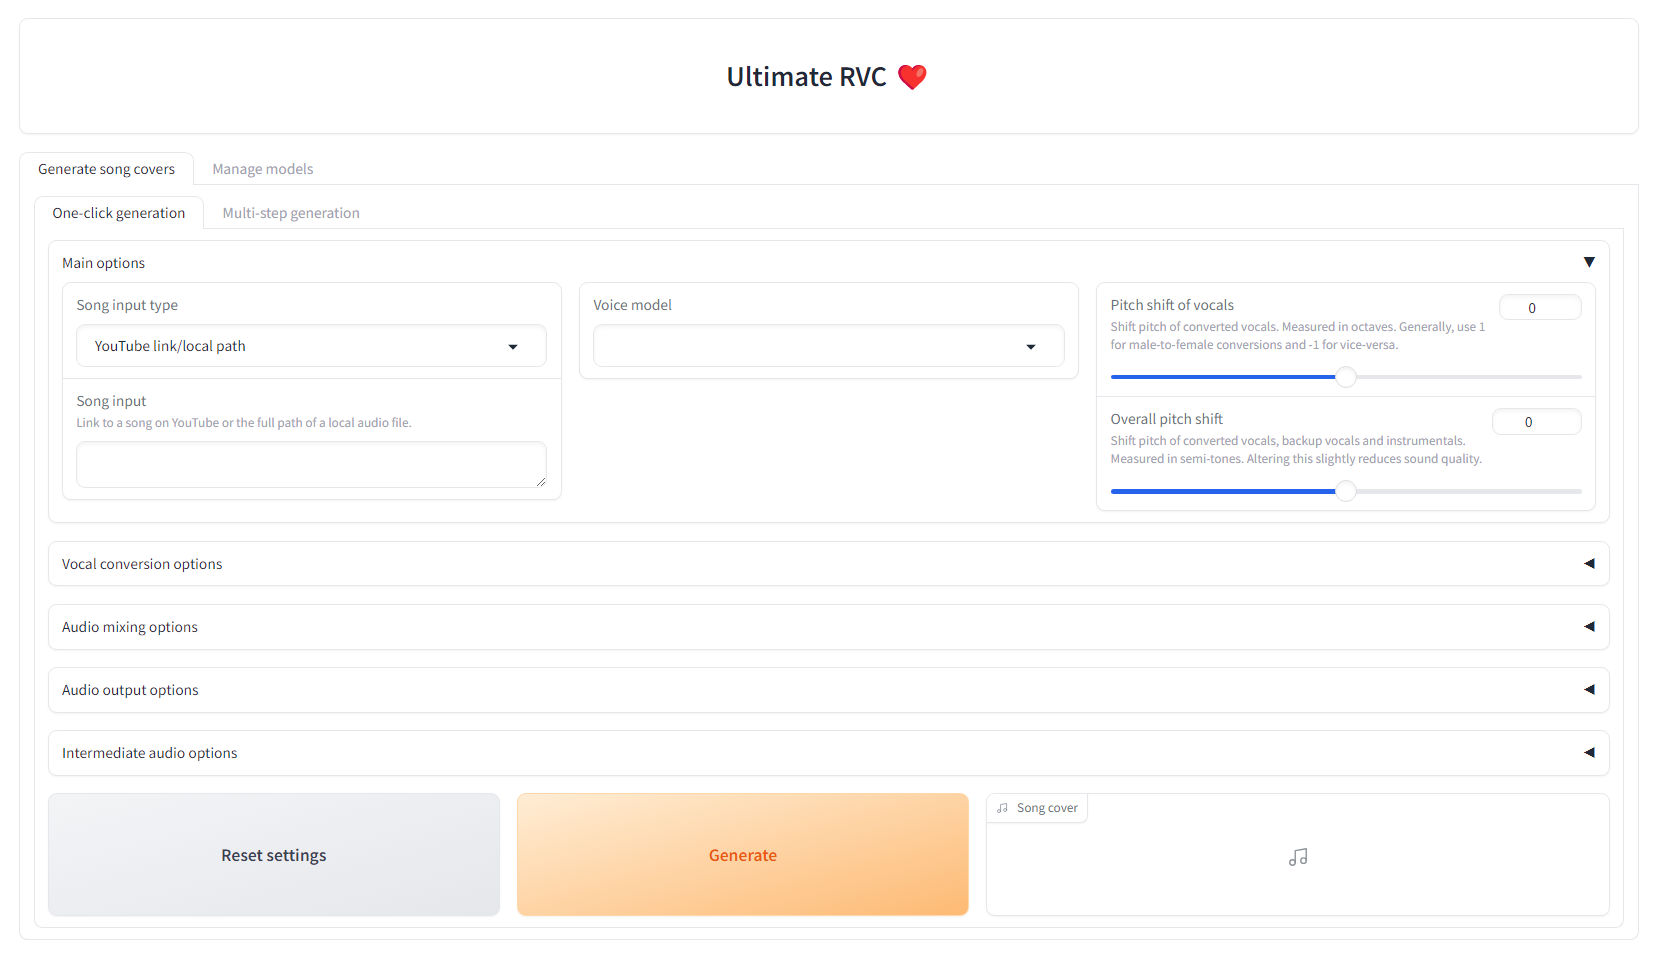
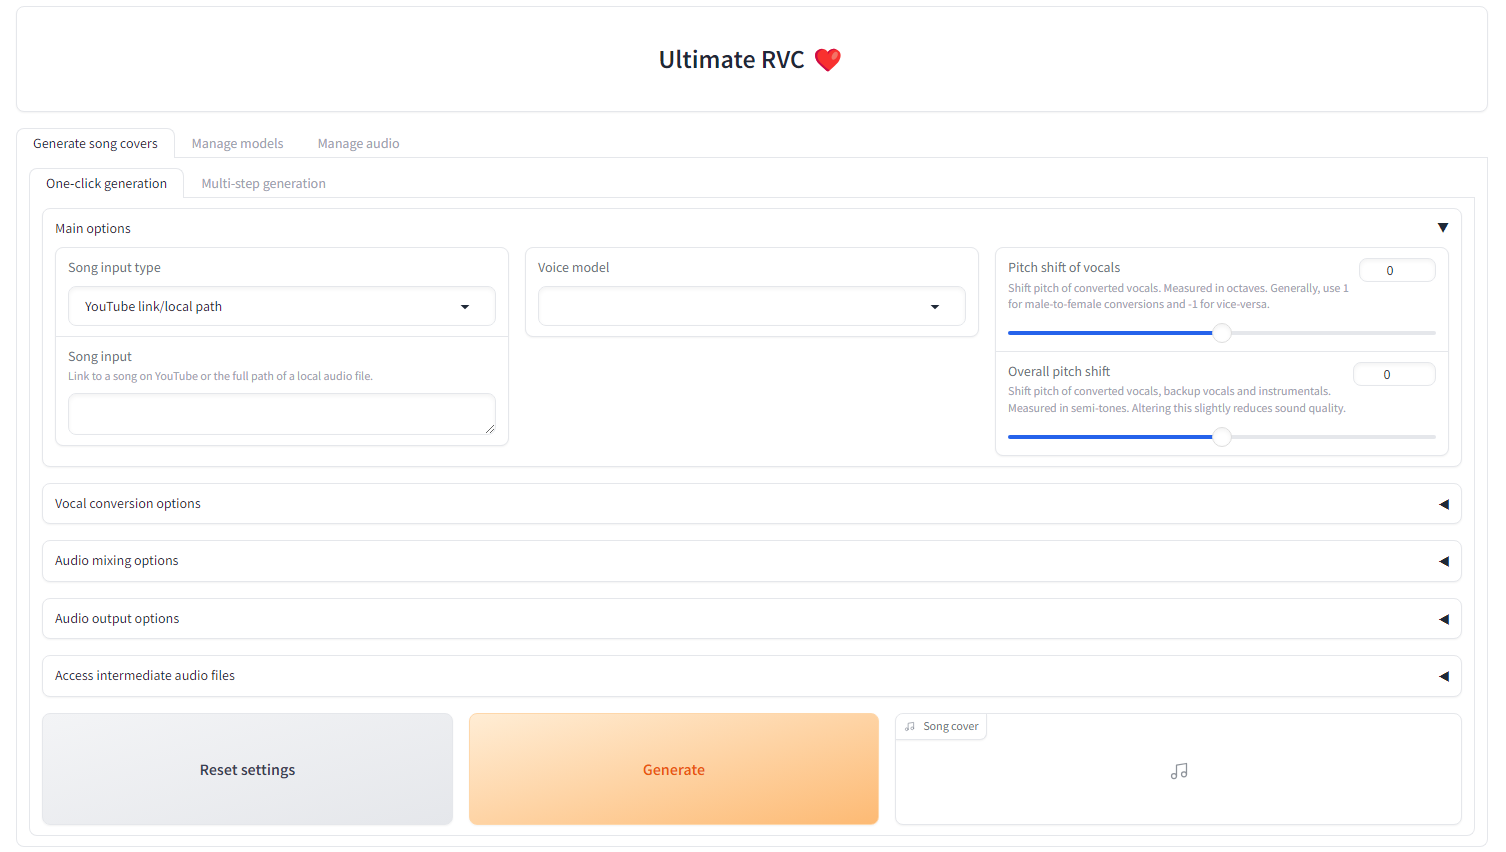
update readme

diff --git a/README.md b/README.md
@@ -1,18 +1,27 @@
 # Ultimate RVC
 
-An autonomous pipeline to create covers with any RVC v2 trained AI voice from YouTube videos or a local audio file. For developers who may want to add a singing functionality into their AI assistant/chatbot/vtuber, or for people who want to hear their favourite characters sing their favourite song.
+An extension of [AiCoverGen](https://github.com/SociallyIneptWeeb/AICoverGen), which provides several new features and improvements, enabling users to generate song covers using RVC with ease. Ideal for people who wnat to incorporate singing functionality into their AI assistant/chatbot/vtuber, or for people who want to hear their favourite characters sing their favourite song.
 
-Showcase: TBA
-
-Setup Guide: TBA
+<!-- Showcase: TBA -->
 
 ![](images/webui_generate.png?raw=true)
 
 Ultimate RVC is under constant development and testing, but you can try it out right now locally!
 
-## Changelog
+## New Features
 
-TBA
+* Easy and automated setup using launcher scripts for both windows and debian-based linux systems
+* Caching system which saves intermediate audio files as needed, thereby reducing inference time as much as possible. For example, if song A has already been converted using model B and now you want to convert song A using model C, then vocal extraction can be skipped and inference time reduced drastically
+* Ability to listen to intermediate audio files in the UI. This is useful for getting an idea of what is happening in each step of the song cover generation pipeline
+* A "multi-step" song cover generation tab: here you can try out each step of the song cover generation pipeline in isolation. For example, if you already have extracted vocals available and only want to convert these using your voice model, then you can do that here. Besides, this tab is useful for experimenting with settings for each step of the song cover generation pipeline
+* An overhaul of the song input component for the song cover generation pipeline. Now cached input songs can be selected from a dropdown, so that you don't have to supply the Youtube link of a song each time you want to convert it. 
+* A new "manage models" tab, which collects and revamps all existing functionality for managing voice models, as well as adds some new features, such as the ability to delete existing models
+* A "manage audio", which allows you to to interact with all audio generated by the app. Currently, this tab supports deleting audio files.
+* Lots of visual and performance improvements resulting from updating from Gradio 3 to Gradio 4 and from python 3.9 to python 3.11
+
+<!-- ## Changelog
+
+TBA -->
 
 ## Setup
 
@@ -34,8 +43,8 @@ Run the following command to install the necessary dependencies on Windows:
 ```
 ./urvc.bat install 
 ```
-Note that this will install Visual Studio build tools in your Program Files directory and will install Miniconda in your user directory. 
-The whole process may take upwards of 15 minutes, so grab a cup of coffee and wait.
+Note that this will install Miniconda in your user directory. 
+The whole process may take upwards of 10 minutes, so grab a cup of coffee and wait.
 
 #### Linux (Debian-based)
 
@@ -79,7 +88,7 @@ Once the following output message `Running on local URL:  http://127.0.0.1:7860`
 ![](images/webui_dl_model.png?raw=true)
 
 Navigate to the `Download model` subtab under the `Manage models` tab, and paste the download link to an RVC model and give it a unique name.
-You may search the [AI Hub Discord](https://discord.gg/aihub) where already trained voice models are available for download. You may refer to the examples for how the download link should look like.
+You may search the [AI Hub Discord](https://discord.gg/aihub) where already trained voice models are available for download.
 The downloaded zip file should contain the .pth model file and an optional .index file.
 
 Once the 2 input fields are filled in, simply click `Download`! Once the output message says `[NAME] Model successfully downloaded!`, you should be able to use it in the `Generate song covers` tab!
@@ -90,7 +99,7 @@ Once the 2 input fields are filled in, simply click `Download`! Once the output 
 
 For people who have trained RVC v2 models locally and would like to use them for AI cover generations.
 Navigate to the `Upload model` subtab under the `Manage models` tab, and follow the instructions.
-Once the output message says `[NAME] Model successfully uploaded!`, you should be able to use it in the `Generate song covers` tab!
+Once the output message says `Model with name [NAME] successfully uploaded!`, you should be able to use it in the `Generate song covers` tab!
 
 #### Delete RVC models
 
@@ -106,20 +115,20 @@ TBA
 - From the Voice model dropdown menu, select the voice model to use.
 - In the song input field, copy and paste the link to any song on YouTube, the full path to a local audio file, or select a cached input song.
 - Pitch should be set to either -12, 0, or 12 depending on the original vocals and the RVC AI modal. This ensures the voice is not *out of tune*.
-- Other advanced options for vocal conversion, audio mixing and etc. can be viewed by clicking the  appropriate accordion arrow to expand.
+- Other advanced options for vocal conversion, audio mixing and etc. can be viewed by clicking the appropriate accordion arrow to expand.
 
 Once all options are filled in, click `Generate` and the AI generated cover should appear in a less than a few minutes depending on your GPU.
 
 #### Multi-step generation
 TBA
 
-## CLI
-TBA
+<!-- ## CLI
+TBA -->
 
 ## Update to latest version
 
 Run the following command to pull latest changes from the repository and reinstall dependencies. 
-Note that the process may take upwards of 10 minutes.
+Note that the process may take upwards of 5 minutes.
 #### Windows
 
 ```
